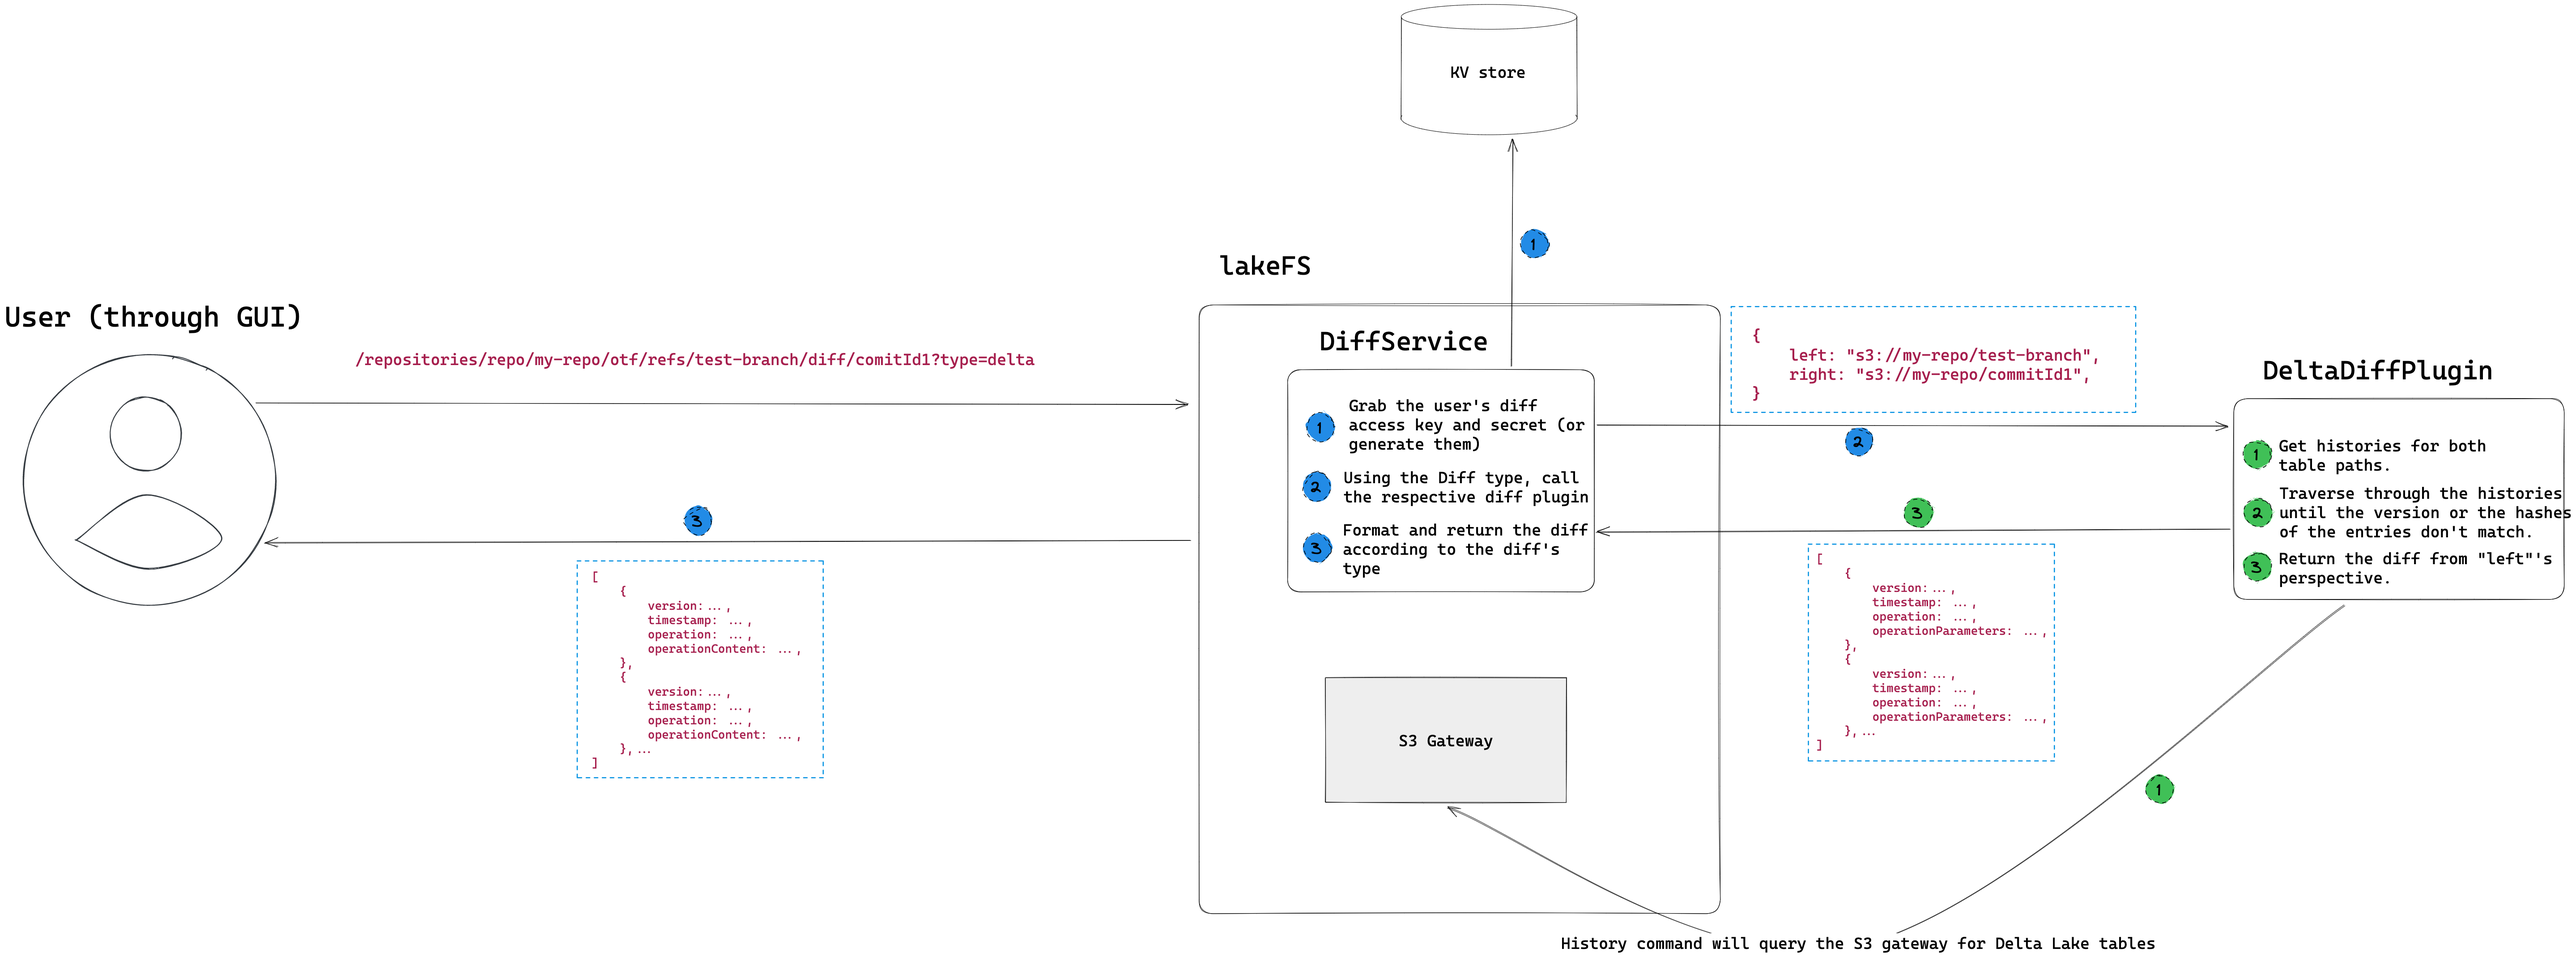
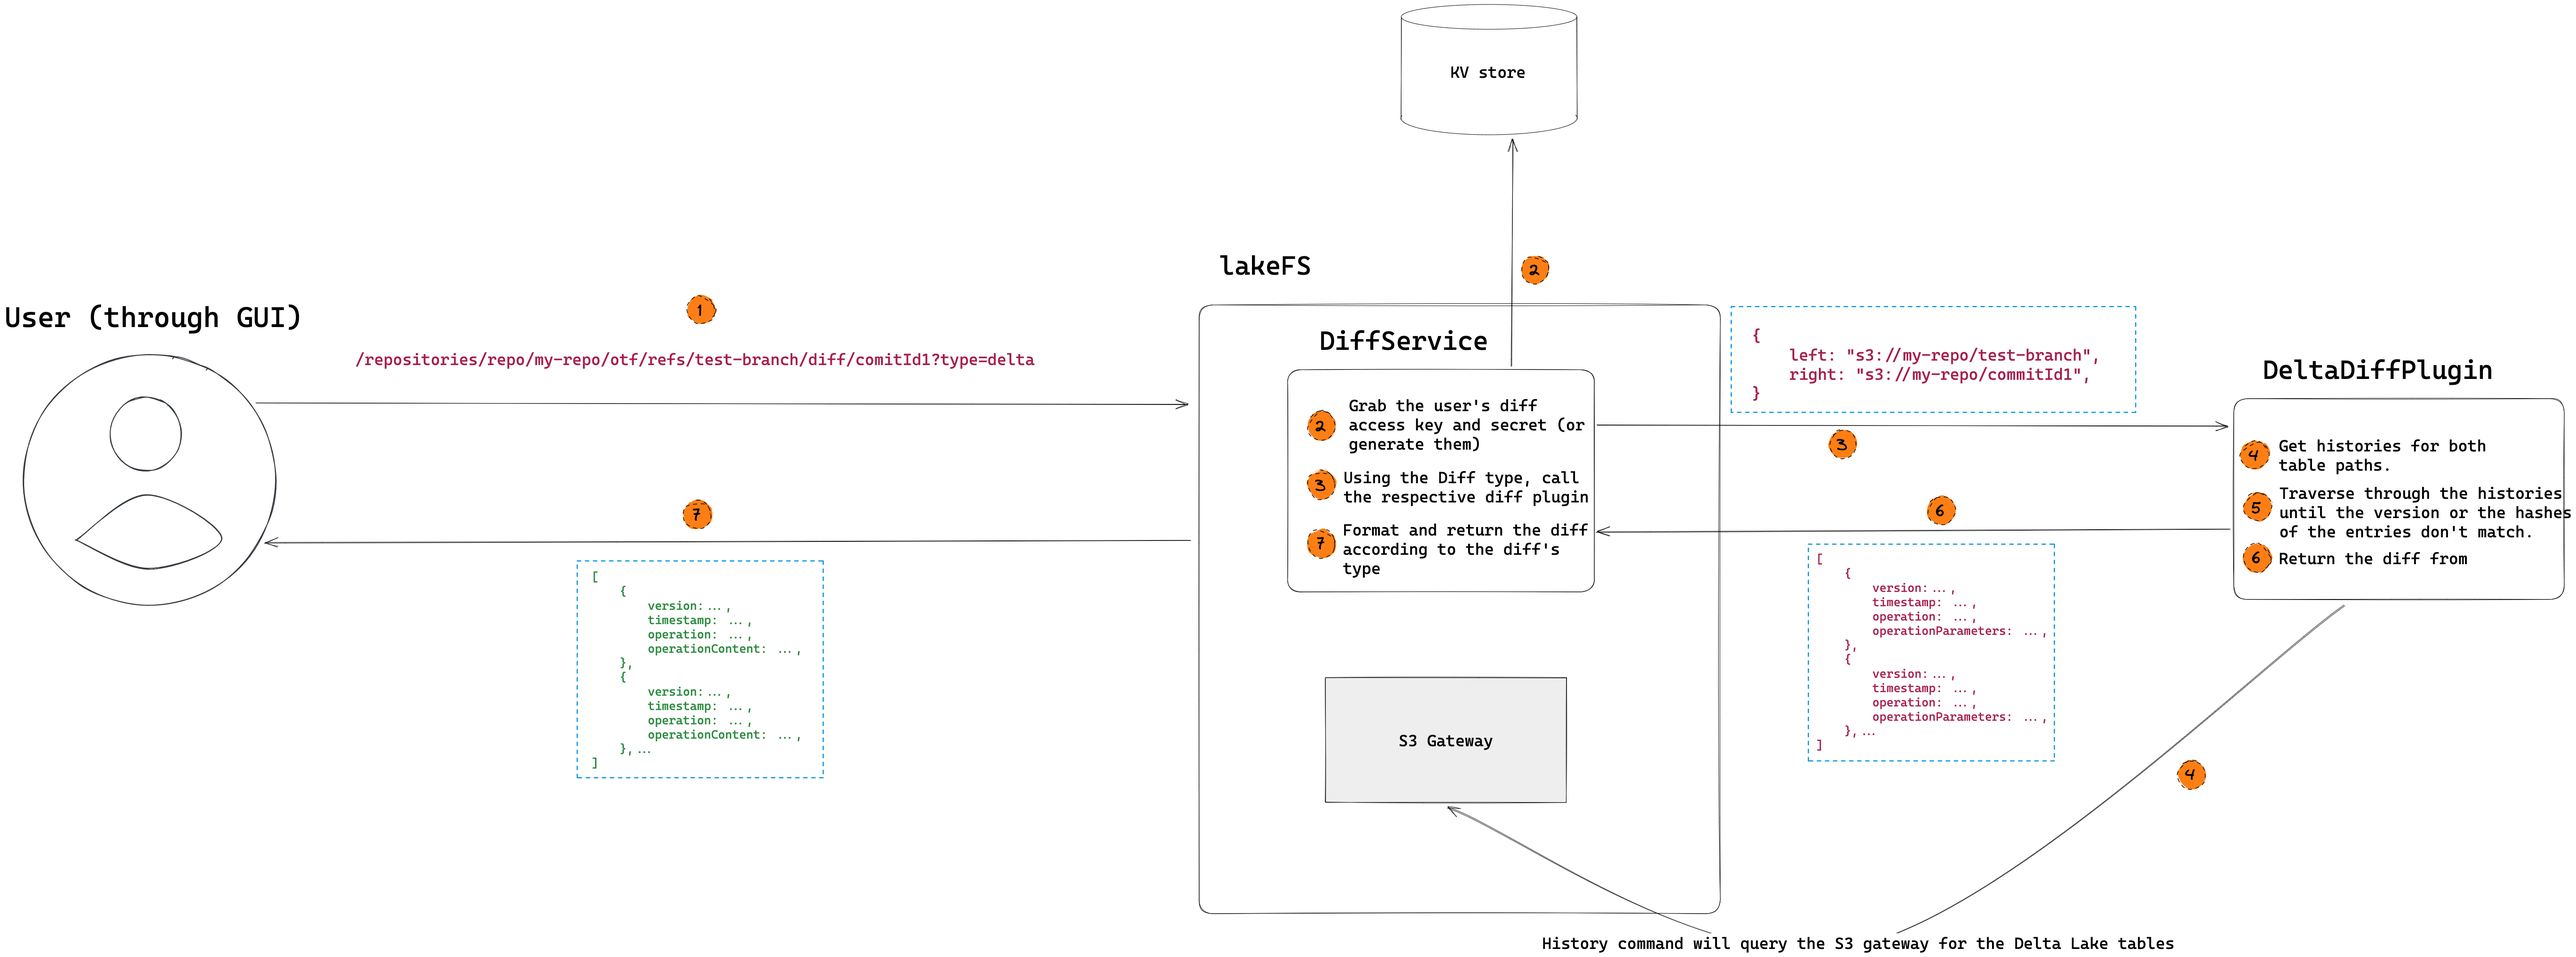
update Delta Diff design

diff --git a/design/open/delta-diff.md b/design/open/delta-diff.md
@@ -24,6 +24,9 @@ She would like to debug the ETL run. In other words, she would want to see the D
 1.  The Delta diff will be limited to the available Delta Log entries (the JSON files), which are, by default, retained
 for [30 days](https://docs.databricks.com/delta/history.html#configure-data-retention-for-time-travel).
 2. Log compaction isn't supported.
+3. Delta Table diff will only be supported if the table stayed where it was, e.g. if we have a Delta table on path
+`repo/branch1/delta/table` and it moved in a different branch to location `repo/branch2/delta/different/location/table`
+then it won't be "diffable".
 
 ---
 
@@ -90,34 +93,55 @@ Plugins can be written and consumed in almost every major language. This is achi
 #### DiffService
 
 The DiffService will be an internal component in lakeFS which will serve as the Core system.  
-In order to realize which diff plugins are available, we shall use new configuration values:
-1. `LAKEFS_PLUGINS_LOCATION`
-   The DiffService will use this location to search for the required plugin. Defaults to lakeFS's configuration file directory.
-2. `LAKEFS_PLUGIN_DIFF_{TYPE OF DIFF}`
-   The DiffService will use the name of binary provided by this env var to perform the diff. For instance, `LAKEFS_PLUGIN_DIFF_DELTA=deltaDiffBinary`
-   The DiffService will use the [plugins' location](https://github.com/hashicorp/terraform/blob/main/plugins.go) and the diff binary to load the plugin and request a diff.
-   The **type** of diff will be sent as part of the request to lakeFS as specified [here](#API).
-   The communication between the DiffService and the plugins, as explained above, will be through the `go-plugin` package (`gRPC`).
+In order to realize which diff plugins are available, we shall use new manifest section and environment variables:
+
+```yaml
+diff:
+  <diff_type>:
+    plugin: <plugin_name_1>
+plugins:
+  <plugin_name_1>: <location to the 'plugin_name_1' plugin - full path to the binary needed to execute>
+  <plugin_name_2>: <location to the 'plugin_name_1' plugin - full path to the binary needed to execute>    
+```
+
+1. `LAKEFS_DIFF_{DIFF_TYPE}_PLUGIN`
+   The DiffService will use the name of plugin provided by this env var to load the binary and perform the diff. For instance,
+   `LAKEFS_DIFF_DELTA_PLUGIN=delta_diff_plugin` will search for the binary path under the manifest path
+   `plugins.delta_diff_plugin` or environment variable `LAKEFS_PLUGINS_DELTA_DIFF_PLUGIN`.
+   If a given plugin path will not be found in the manifest or env var (e.g. `delta_diff_plugin` in the above example),
+   the binary of a plugin with the same name will be searched under `~/.lakefs/plugins` (as the
+   [plugins' default location](https://github.com/hashicorp/terraform/blob/main/plugins.go)).
+2. `LAKEFS_PLUGINS_{PLUGIN_NAME}`
+   This environment variable (and corresponding manifest path) will provide the path to the binary of a plugin named
+   {PLUGIN_NAME}, for example, `LAKEFS_PLUGINS_DELTA_DIFF_PLUGIN=/path/to/delta/diff/binary`.
+
+The **type** of diff will be sent as part of the request to lakeFS as specified [here](#API).
+The communication between the DiffService and the plugins, as explained above, will be through the `go-plugin` package (`gRPC`).
 
 #### Delta Diff Plugin
 
 Implemented using [delta-rs](https://github.com/delta-io/delta-rs) (Rust), this plugin will perform the diff operation using table paths provided by the DiffService through a `gRPC` call.  
 To query the Delta Table from lakeFS, the plugin will generate an S3 client (this is a constraint imposed by the `delta-rs` package) and send a request to lakeFS's S3 gateway.  
-The diff algorithm:
-1. Run the Delta [HISTORY command](https://docs.delta.io/latest/delta-utility.html#history-schema) on both table paths.
-2. Traverse through the [returned "commitInfo" entry vector ](https://github.com/delta-io/delta-rs/blob/d444cdf7588503c1ebfceec90d4d2fadbd50a703/rust/src/delta.rs#L910)
-starting from the **last** version of each history vector: 
-    1. While the returned entry versions **aren't** equal OR no more versions available:
-        1. If the bigger version is the _"left"'s_ version, add the entry to the returned history list.
-        2. Traverse one version back of the bigger version entry's history.
-    2. While the versions > 0 OR no more versions available: 
+
+* The objects requested from lakeFS will only be the `_delta_log` JSON files, as they are the files that construct a table's history.
+* We shall limit the number of returned objects to 1000 (each entry is ~500 bytes).<sup>[2](#future-plans)</sup>
+
+_The diff algorithm:_
+1. Get the table version of the base common ancestor.
+2. Run a variation of the Delta [HISTORY command](https://docs.delta.io/latest/delta-utility.html#history-schema)<sup>[3](#future-plans)</sup>
+(this variation starts from a given version number) on both table paths, starting from the version retrieved above.
+    - If the left table doesn't include the base version (from point 1), start from the oldest version greater than the base.
+3. Operate on the [returned "commitInfo" entry vector ](https://github.com/delta-io/delta-rs/blob/d444cdf7588503c1ebfceec90d4d2fadbd50a703/rust/src/delta.rs#L910)
+starting from the **oldest** version of each history vector that is greater than the base table version: 
+    1. If one table version is greater than the other table version, increase the smaller table's version until it gets to the same version of the other table.
+    2. While there are more versions available && answer's vector size < 1001: 
         1. Create a hash for the entry based on fields: `timestamp`, `operation`, `operationParameters` , and `operationMetrics` values.
         2. Compare the hashes of the versions.
-        3. If they **aren't equal**, add the "left"'s entry to the returned history list, else, break and **return the history list**.
-        4. Traverse one version back in both vectors.
-3. Return the history list.
+        3. If they **aren't equal**, add the "left" table's entry to the returned history list.
+        4. Traverse one version forward in both vectors.
+4. Return the history list.
 
-### Authentication
+### Authentication<sup>[4](#future-plans)</sup>
 
 The `delta-rs` package generates an S3 client which will be used to communicate back to lakeFS (through the S3 gateway).  
 In order for the S3 client to communicate with lakeFS (or S3 in general) it needs to pass an AWS Access Key Id and Secret access key.  
@@ -132,7 +156,7 @@ To overcome this scenario, we'll use special diff credentials as follows:
 
 ### API
 
-- GET `/repositories/repo/{repo}/otf/refs/{left_ref}/diff/{right_ref}?type={diff_type}`
+- GET `/repositories/repo/{repo}/otf/refs/{left_ref}/diff/{right_ref}?table_path={path}&type={diff_type}`
     - Tagged as experimental
     - **Response**:  
         The response includes an array of operations from different versions of the specified table format.
@@ -169,18 +193,58 @@ To overcome this scenario, we'll use special diff credentials as follows:
     
 ---
 
-### Packaging
+### Build & Package
 
-1. We will package the binary with the lakeFS release.
-2. We will also update the Dockerfile to include the binary within it.
+#### Build
+
+The Rust diff implementation will be located within the lakeFS repo. That way the protobuf will be shared between the 
+"core" and "plugin" components easily. We will use `cargo` to build the artifacts for the different architectures.  
+
+###### lakeFS development
+
+The different plugins will have their own target in the `makefile` which will not be included as a (sub) dependency
+of the `all` target. That way we'll not force lakeFS developers to include Rust (or any other plugin runtime) 
+in their stack.
+If developers want to develop new plugins, they'll have to include the necessary runtime in their environment.
+
+* _Contribution guide_: It also means updating the contribution guide on how to update the makefile if a new plugin is added.
+
+###### Docker
+
+The docker file will build the plugins and will include Rust in the build part.
+
+#### Package
+
+1. We will package the binary within the released lakeFS + lakectl archive. It will be located under a `plugins` directory:
+`plugins/diff/delta_v1`.
+2. We will also update the Docker image to include the binary within it. The docker image is what clients should
+use in order to get the "out-of-the-box" experience.
 
 ---
 
 ## Metrics
 
 ### Applicative Metrics
+
 - Diff runtime
-- The total number of versions returned - this is the number of files that were read from lakeFS. This is basically the size of a Delta Log. We can use it later on to optimize reading.
+- The total number of versions read (per diff) - this is the number of Delta Log (JSON) files that were read from lakeFS by the plugin.
+This is basically the size of a Delta Log. We can use it later on to optimize reading and understand an average size of 
+Delta log.
 
 ### Business Statistics
-- The number of unique requests - get the number of Delta Lake users.
+
+- The number of unique requests by installation id- get the lower bound of the number of Delta Lake users.
+
+---
+
+## Future plans
+
+1. Add a separate call to the plugin that merely checks that the plugin si willing to try to run on a location.
+This allows a better UX(gray-out the button until you type in a good path), and will probably be helpful for performing 
+auto-detection.
+2. Support pagination.
+3. The `delta-rs` HISTORY command is inefficient as it sends multiple requests to get all the Delta log entries. 
+We might want to hold this information in our own model to make it easier for the diff (and possibly merge) to work.
+4. This design's authentication method is temporary. It enlists two auth requirements that we might need to implement:
+   1. Support tags/policies for credentials.
+   2. Allow temporary credentials.
